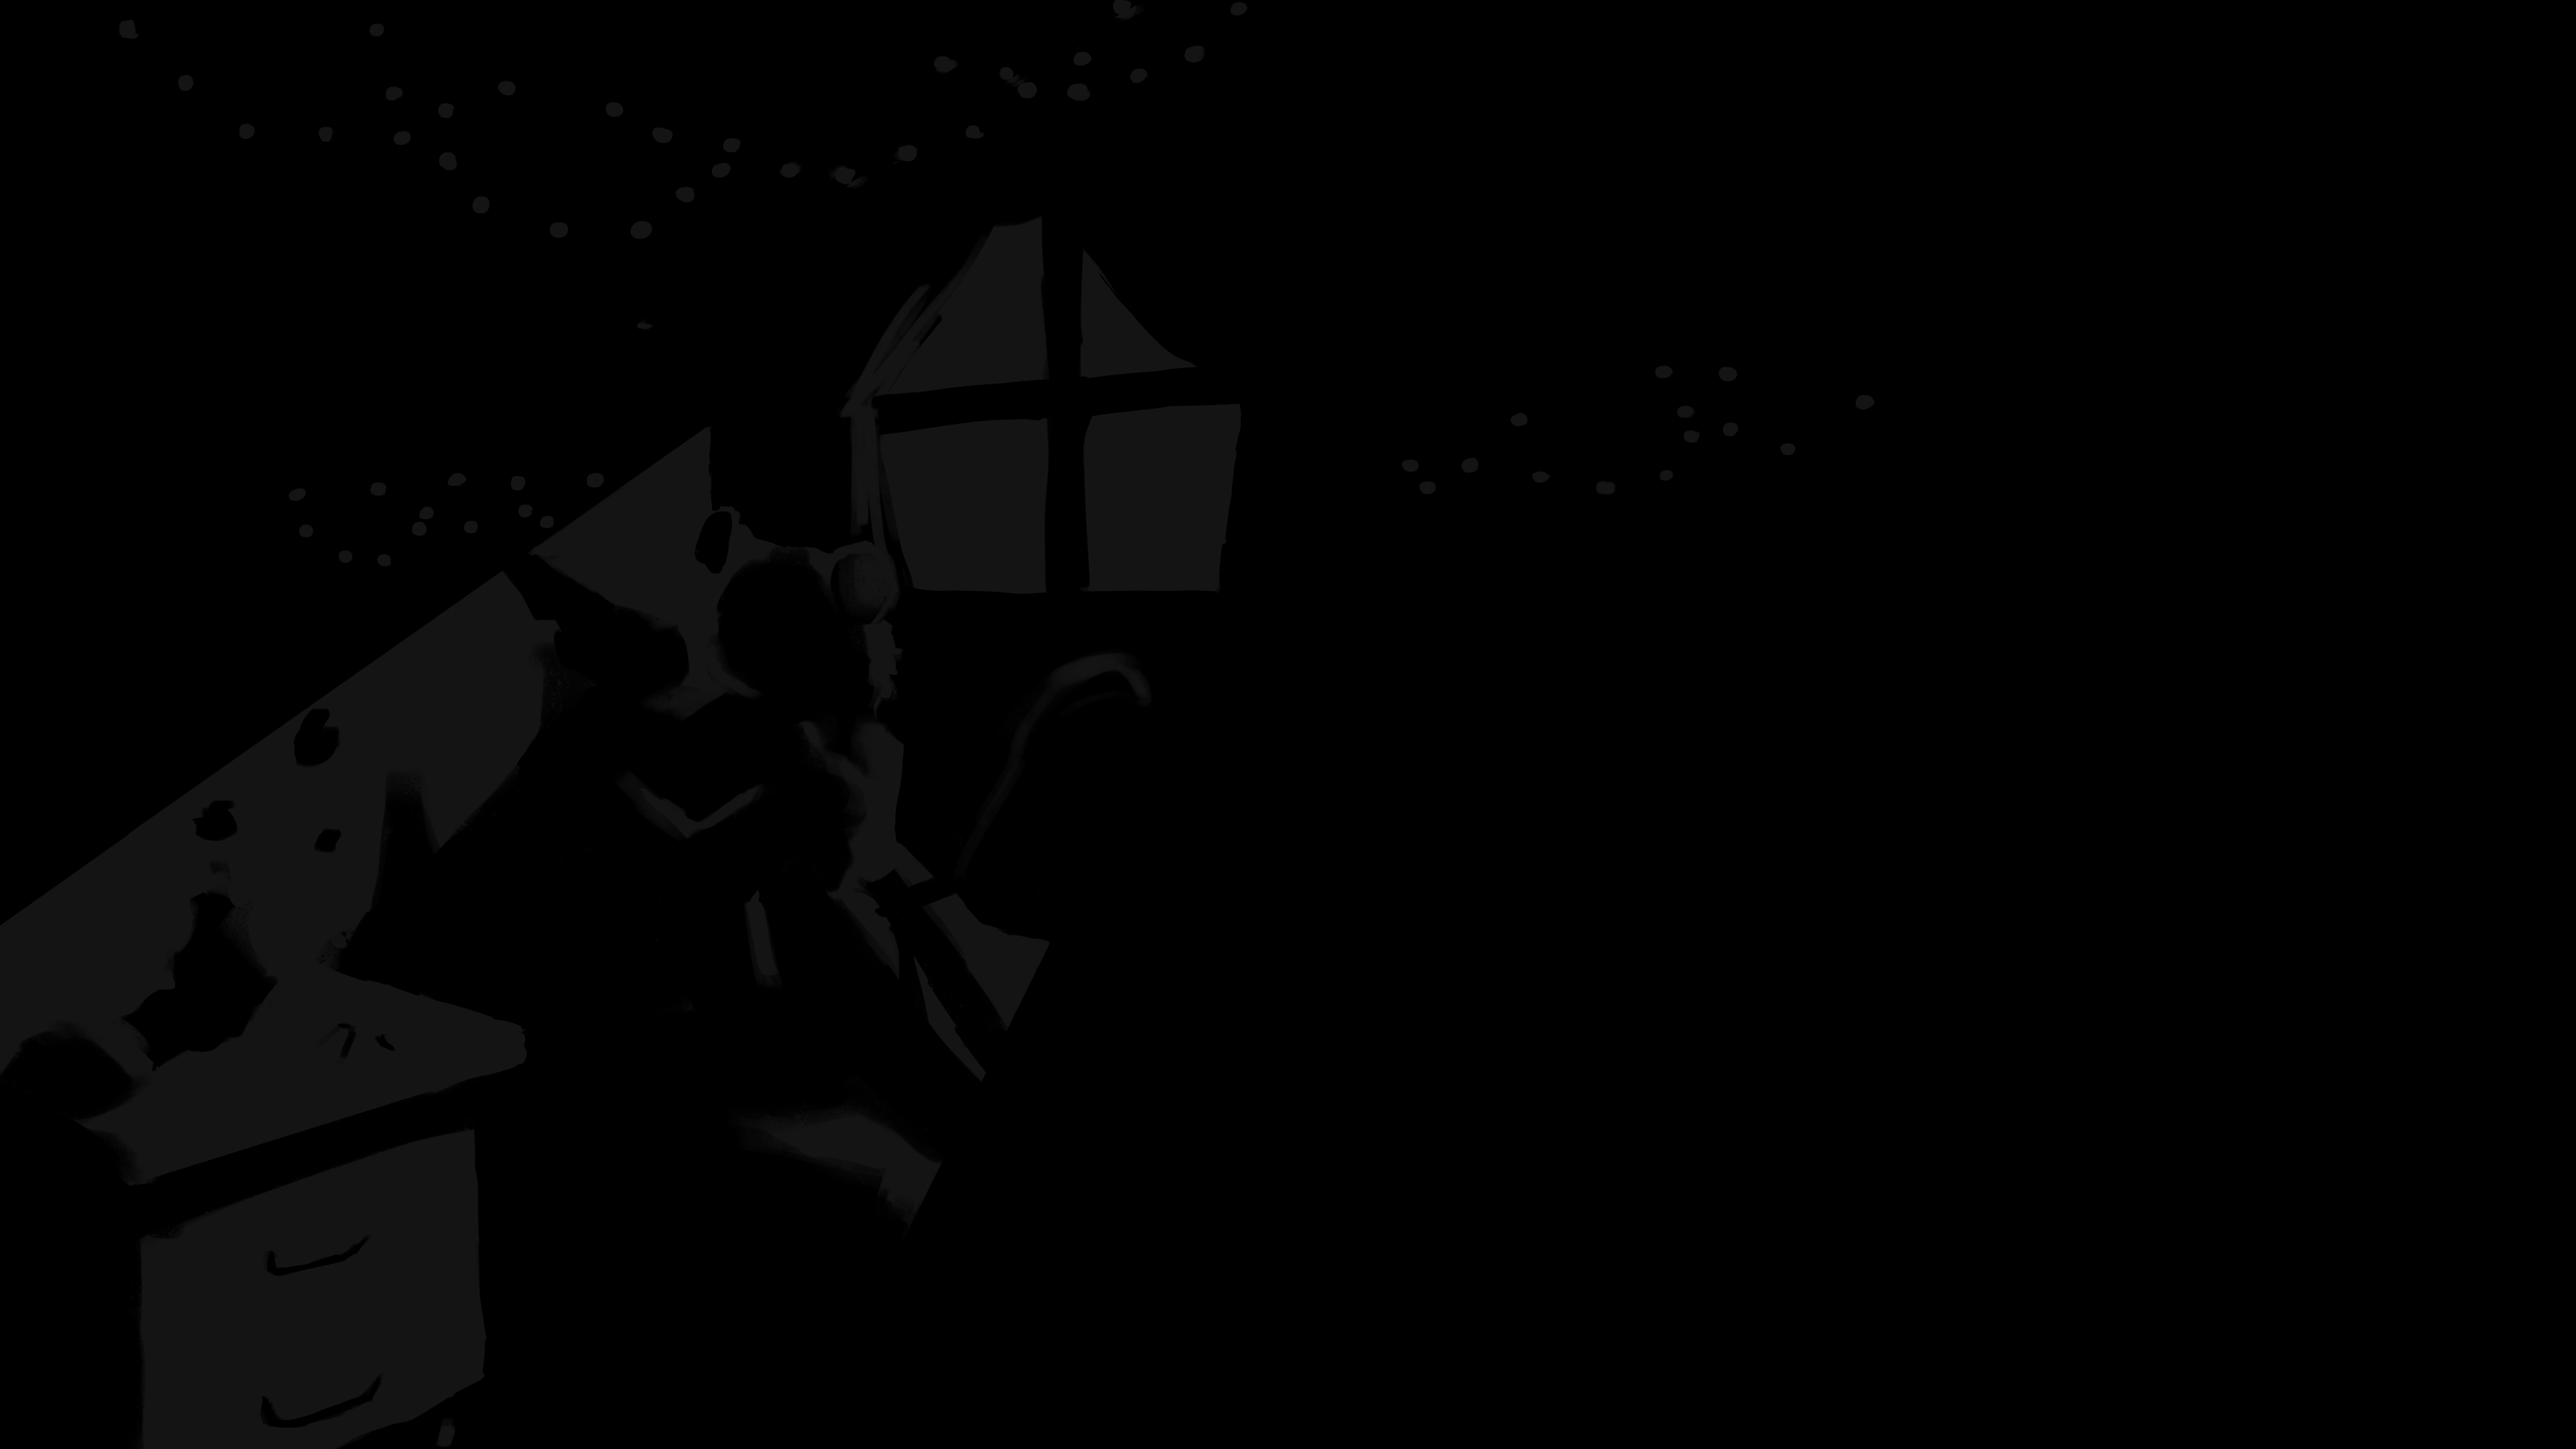
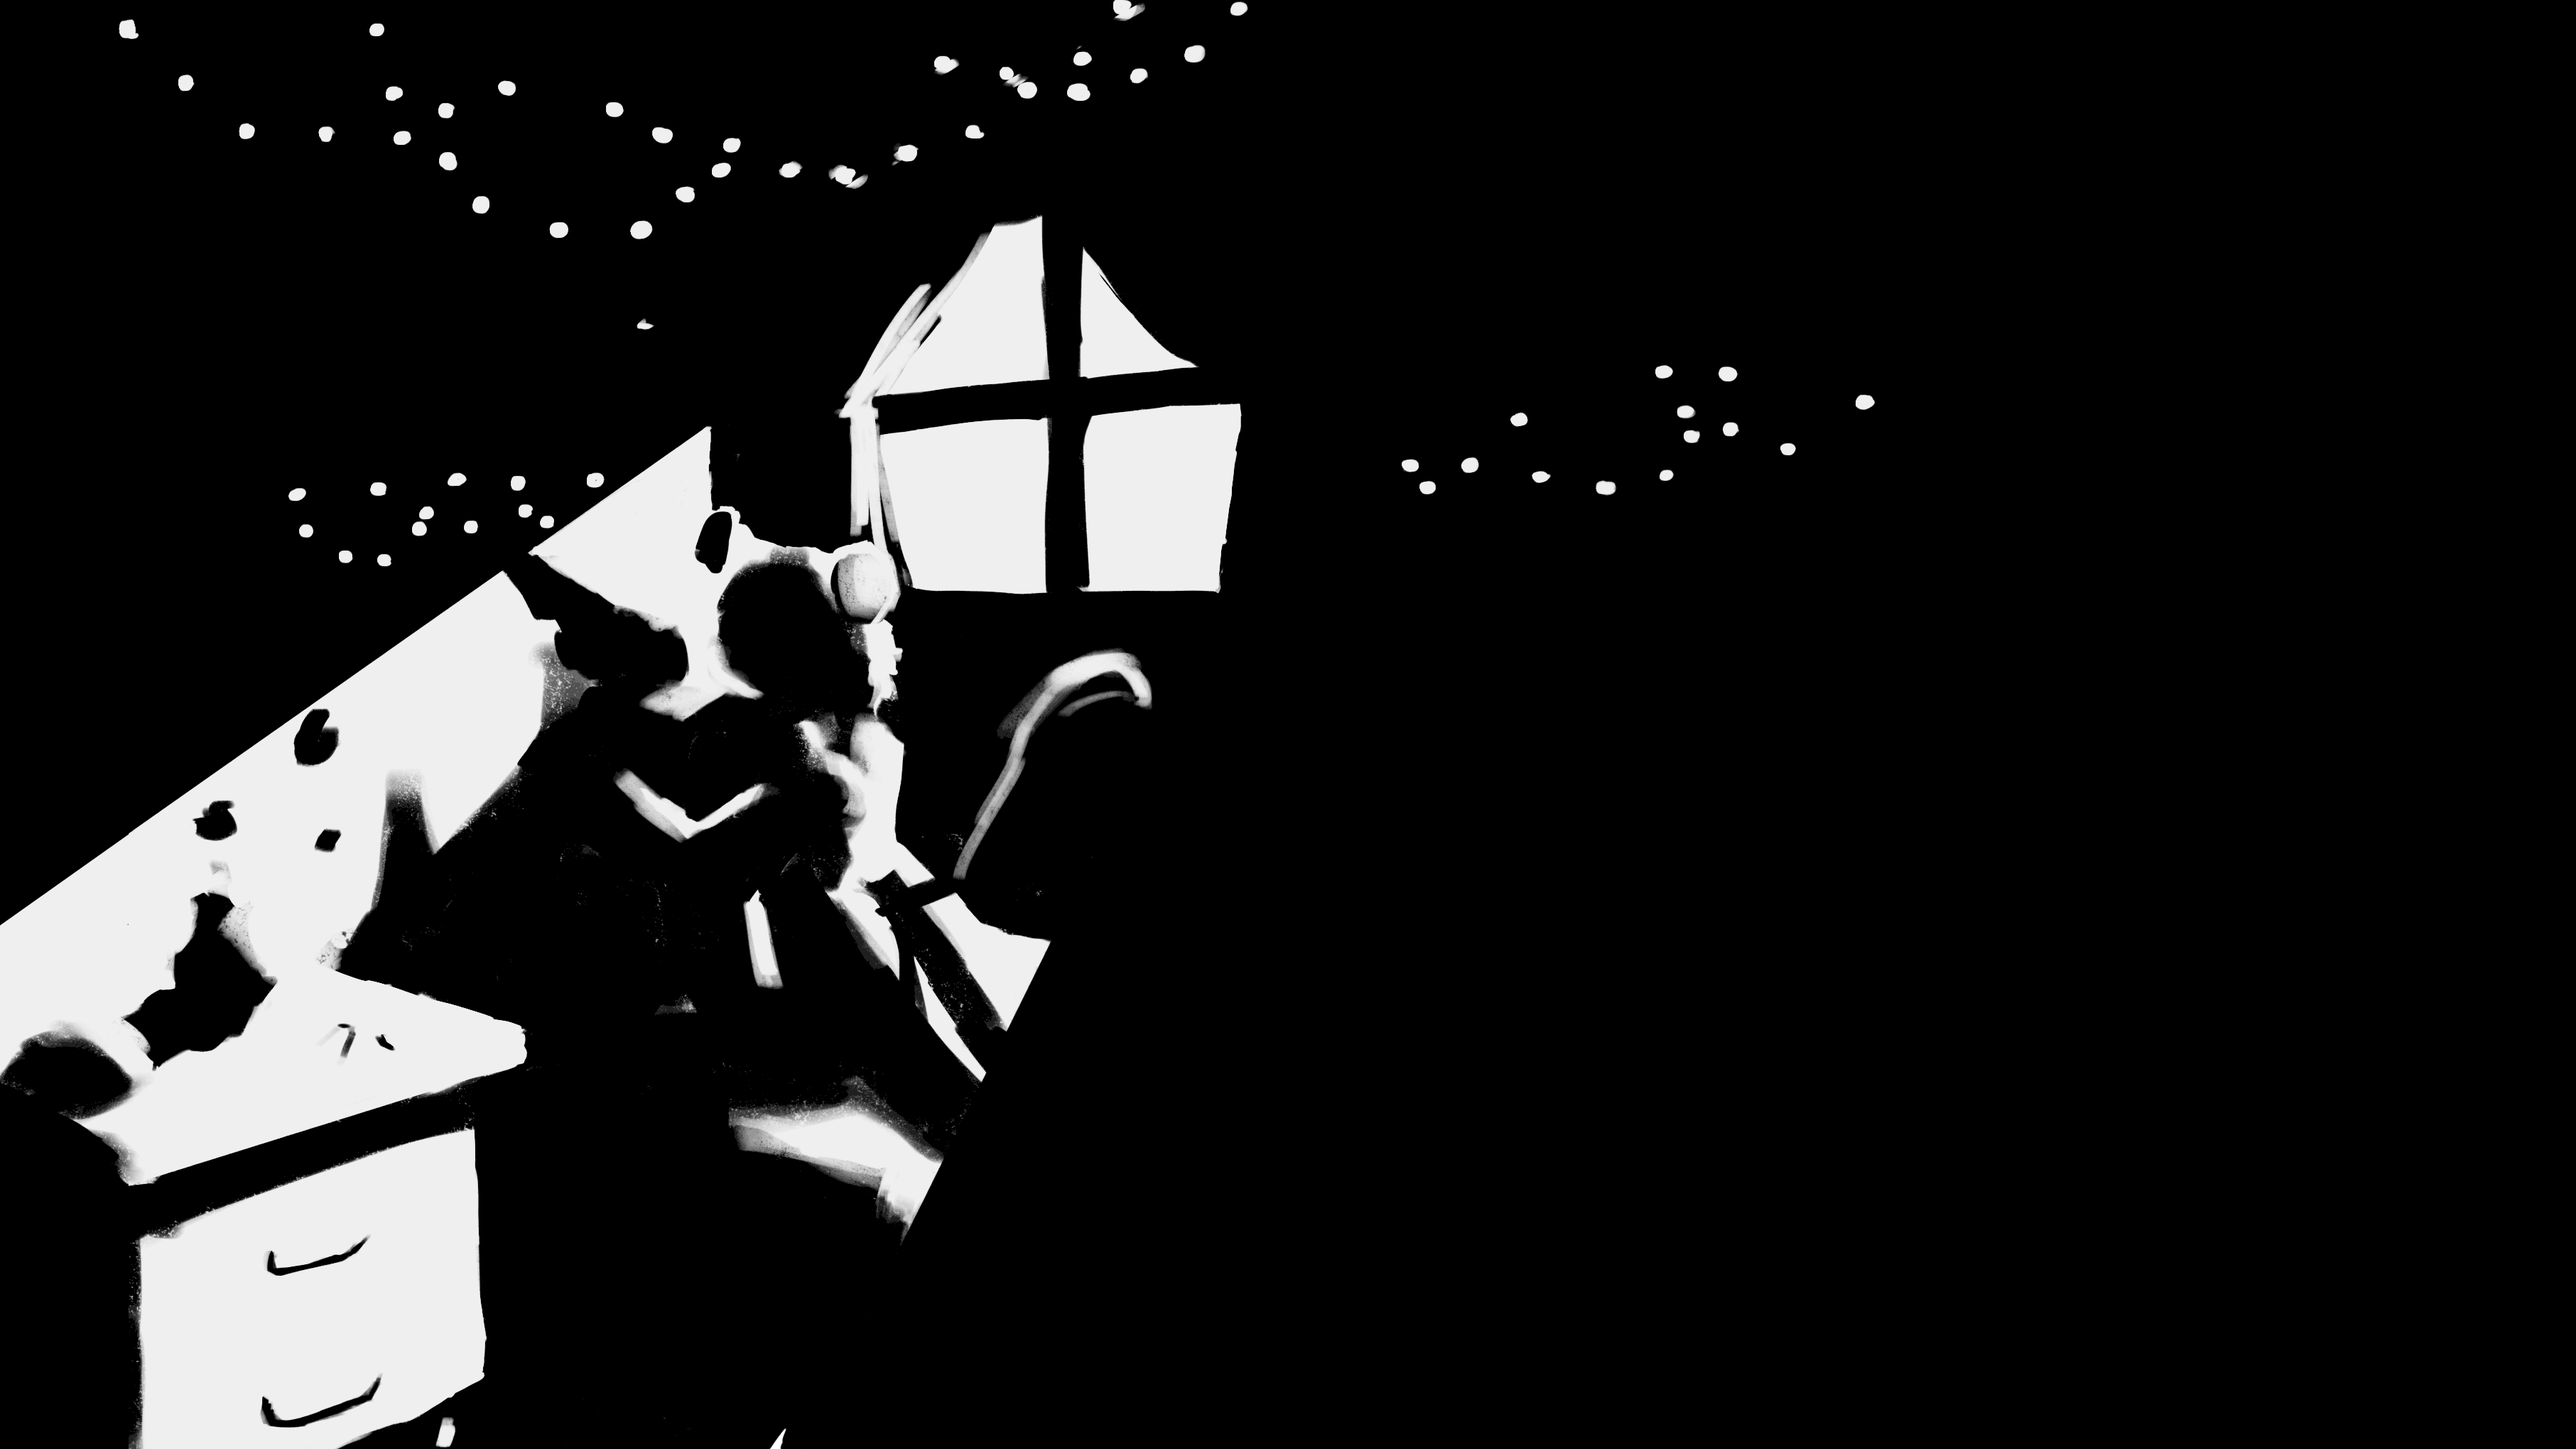
fixes

diff --git a/build.py b/build.py
@@ -77,12 +77,13 @@ def generate(imgs, c: Colors):
 
         res = alpha * color + (1 - alpha) * res
 
-    res = multiply(res, c.shadow, imgs[Path("./out/fx/18-shadows.png")])
-    res = add(res, c.yellow, imgs[Path("./out/fx/19-window-hl.png")])
-    res = multiply(res, c.shadow, imgs[Path("./out/fx/20-ao.png")])
-    res = screen(res, c.blue, imgs[Path("./out/fx/21-screen.png")])
-    res = soft_light(res, c.yellow, imgs[Path("./out/fx/22-bloom-yellow.png")])
-    res = soft_light(res, c.blue, imgs[Path("./out/fx/23-bloom-blue.png")])
+    res = multiply(res, c.shadow, imgs[Path("./out/fx/18-shadows.png")] * 0.35)
+    res = soft_light(res, c.yellow, imgs[Path("./out/fx/19-window-hl.png")] * 1)
+    res = multiply(res, c.shadow, imgs[Path("./out/fx/20-ao.png")] * 0.25)
+    res = screen(res, c.blue, imgs[Path("./out/fx/21-screen.png")] * 0.12)
+    res = soft_light(res, c.yellow, imgs[Path("./out/fx/22-bloom-yellow.png")] * 0.6)
+    res = soft_light(res, c.blue, imgs[Path("./out/fx/23-bloom-blue.png")] * 0.8)
+    # res = soft_light(res, c.blue, imgs[Path("./out/fx/23-bloom-blue.png")]*8)
 
     la = add(hex("#000000"), c.lightest, imgs[Path("./out/fx/25-lineart-hl.png")])
     res = blend(la, res, imgs[Path("./out/fx/24-lineart.png")])
